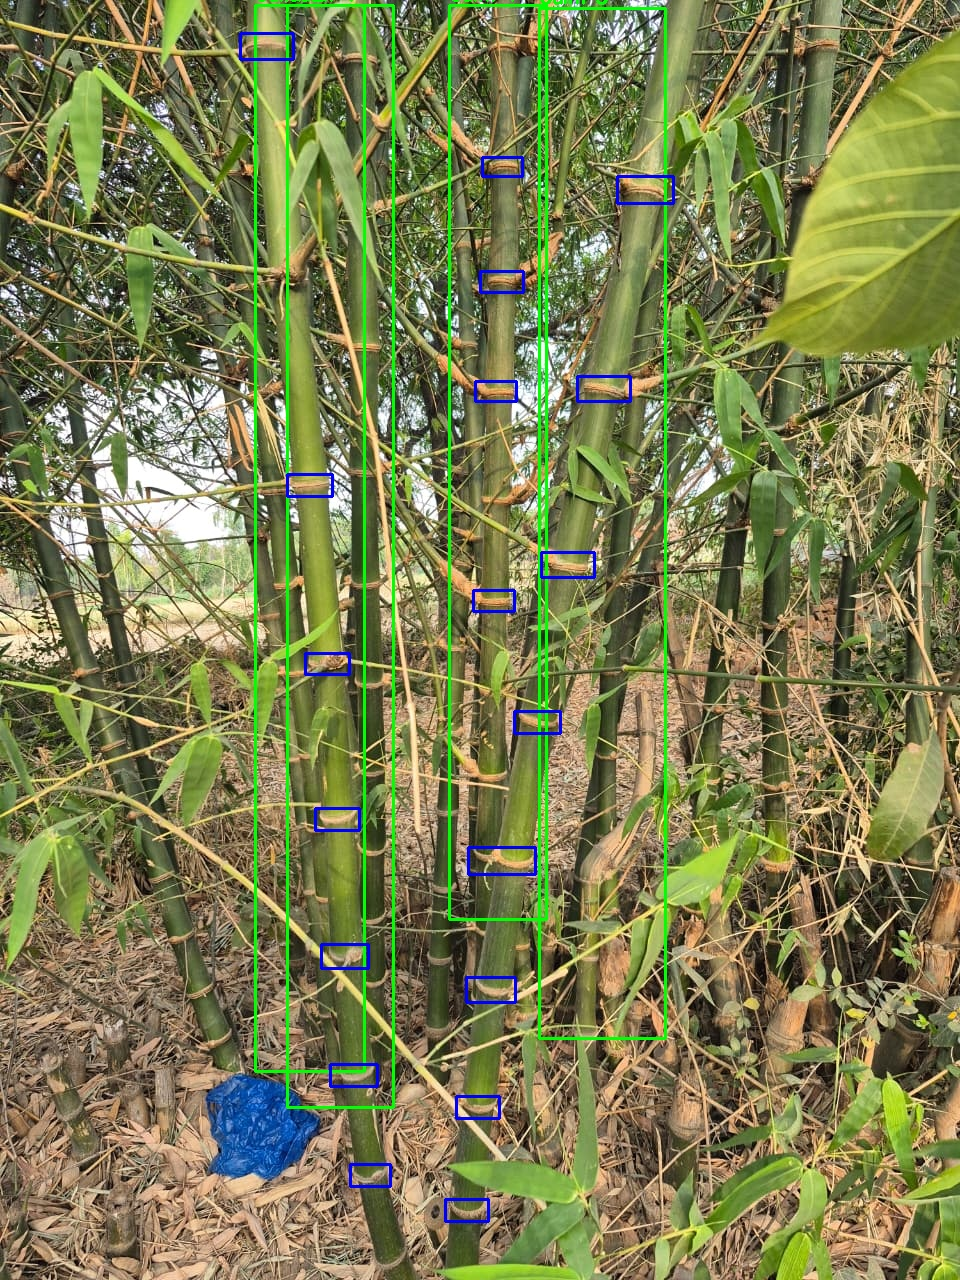
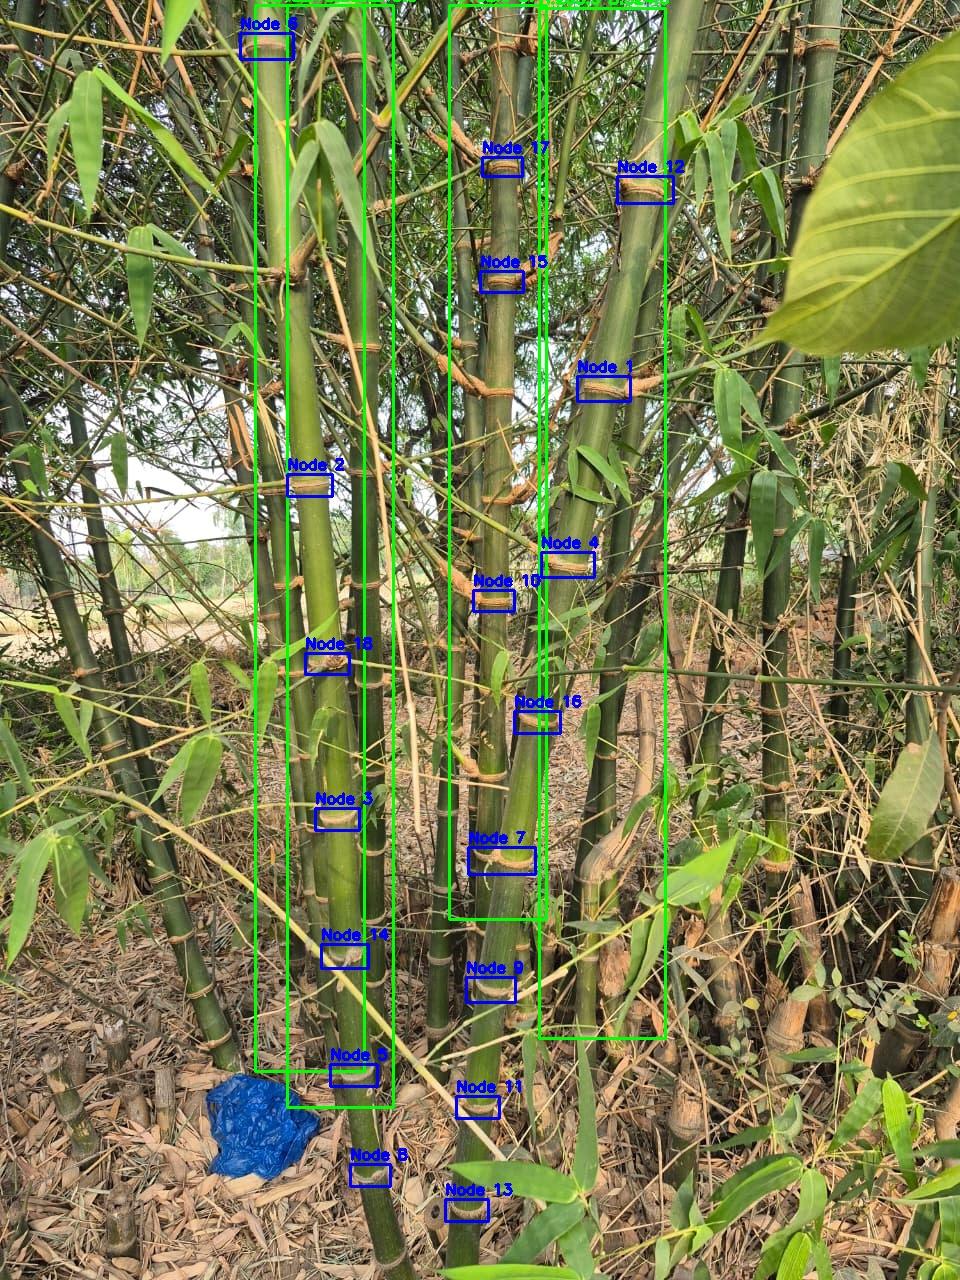
Upgrades in inference.py

diff --git a/inference.py b/inference.py
@@ -1,5 +1,5 @@
 # ================================
-# 🌿 INFERENCE (USE FOR ALL IMAGES)
+# 🌿 INFERENCE (FULL SYSTEM VERSION)
 # ================================
 
 import cv2
@@ -8,11 +8,14 @@ import pandas as pd
 from ultralytics import YOLO
 import json
 import os
+import matplotlib.pyplot as plt
+from reportlab.platypus import SimpleDocTemplate, Paragraph, Spacer
+from reportlab.lib.styles import getSampleStyleSheet
 
 model = YOLO("model/yolo11n.pt")
 
 # -------------------------------
-# Load saved calibration
+# LOAD CALIBRATION
 # -------------------------------
 with open("bamboo_scale.json", "r") as f:
     scale = json.load(f)
@@ -23,94 +26,136 @@ scale_diameter = scale["diameter_scale"]
 print("Loaded scale factors")
 
 # -------------------------------
-# Input image
+# INPUT FOLDER (ALL IMAGES)
 # -------------------------------
-image_path = "test_data/1.jpeg"
-base_name = os.path.splitext(os.path.basename(image_path))[0]
-output_path = f"output/{base_name}_output.jpg"
+input_folder = "test_data"
+output_folder = "output"
+os.makedirs(output_folder, exist_ok=True)
 
-image = cv2.imread(image_path)
-img_vis = image.copy()
+all_data = []
 
-results = model(image)
+# ===============================
+# PROCESS ALL IMAGES
+# ===============================
+for image_name in os.listdir(input_folder):
 
-culms = []
-nodes = []
+    if not image_name.lower().endswith((".jpg", ".jpeg", ".png")):
+        continue
 
-for r in results:
-    for box in r.boxes:
-        cls = int(box.cls[0])
-        label = model.names[cls]
+    image_path = os.path.join(input_folder, image_name)
+    base_name = os.path.splitext(image_name)[0]
+    output_path = os.path.join(output_folder, f"{base_name}_output.jpg")
 
-        x1, y1, x2, y2 = map(int, box.xyxy[0])
+    image = cv2.imread(image_path)
+    img_vis = image.copy()
 
-        if label == "culm":
-            culms.append((x1, y1, x2, y2))
-        elif label == "node":
-            nodes.append((x1, y1, x2, y2))
+    results = model(image)
 
-# -------------------------------
-# PIXEL FEATURES
-# -------------------------------
-heights_px = [(y2 - y1) for (x1, y1, x2, y2) in culms]
-widths_px  = [(x2 - x1) for (x1, y1, x2, y2) in culms]
+    culms = []
+    nodes = []
 
-# -------------------------------
-# REAL-WORLD CONVERSION
-# -------------------------------
-heights_cm = [h * scale_internode for h in heights_px]
-diam_cm = [w * scale_diameter for w in widths_px]
+    # ---------------- detection ----------------
+    for r in results:
+        for box in r.boxes:
+            cls = int(box.cls[0])
+            conf = float(box.conf[0])
+            label = model.names[cls]
 
-# -------------------------------
-# 🌱 BIOMASS ESTIMATION
-# -------------------------------
-k = 0.03  # empirical constant
+            if conf < 0.3:
+                continue
 
-biomass = []
+            x1, y1, x2, y2 = map(int, box.xyxy[0])
 
-for i in range(len(heights_cm)):
-    H = heights_cm[i]
-    D = diam_cm[i]
+            if label == "culm":
+                culms.append((x1, y1, x2, y2))
+            elif label == "node":
+                nodes.append((x1, y1, x2, y2))
 
-    B = k * (D ** 2) * H
-    biomass.append(B)
+    # ---------------- features ----------------
+    heights_px = [(y2 - y1) for (x1, y1, x2, y2) in culms]
+    widths_px  = [(x2 - x1) for (x1, y1, x2, y2) in culms]
 
-# -------------------------------
-# PRINT OUTPUT
-# -------------------------------
-data = []
+    heights_cm = [h * scale_internode for h in heights_px]
+    diam_cm = [w * scale_diameter for w in widths_px]
 
-for i in range(len(culms)):
-    print(f"\n🌿 Culm {i+1}")
-    print("Height (cm):", heights_cm[i])
-    print("Diameter (cm):", diam_cm[i])
-    print("Biomass (kg):", biomass[i])
+    k = 0.03
+    biomass = [k * (D**2) * H for D, H in zip(diam_cm, heights_cm)]
 
-    data.append({
-        "Culm_ID": i+1,
-        "Height_cm": heights_cm[i],
-        "Diameter_cm": diam_cm[i],
-        "Biomass_kg": biomass[i]
-    })
+    # ---------------- save per image data ----------------
+    for i in range(len(culms)):
+        all_data.append({
+            "Image": image_name,
+            "Culm_ID": i+1,
+            "Height_cm": heights_cm[i],
+            "Diameter_cm": diam_cm[i],
+            "Biomass_kg": biomass[i]
+        })
 
-df = pd.DataFrame(data)
+    # ---------------- visualization ----------------
+    for (x1, y1, x2, y2) in culms:
+        cv2.rectangle(img_vis, (x1, y1), (x2, y2), (0, 255, 0), 2)
 
+    for i, (x1, y1, x2, y2) in enumerate(culms):
+        cv2.putText(img_vis,
+                    f"H:{heights_cm[i]:.1f} B:{biomass[i]:.1f}",
+                    (x1, y1-5),
+                    cv2.FONT_HERSHEY_SIMPLEX,
+                    0.5, (0,255,0), 2)
+        
+    # ---------------- NODE VISUALIZATION ----------------
+    for (x1, y1, x2, y2) in nodes:
+        cv2.rectangle(img_vis, (x1, y1), (x2, y2), (255, 0, 0), 2)
+
+    for i, (x1, y1, x2, y2) in enumerate(nodes):
+        cv2.putText(img_vis,
+                    f"Node {i+1}",
+                    (x1, y1 - 5),
+                    cv2.FONT_HERSHEY_SIMPLEX,
+                    0.5, (255, 0, 0), 2)
+
+    cv2.imwrite(output_path, img_vis)
+
+# ===============================
+# SAVE CSV
+# ===============================
+df = pd.DataFrame(all_data)
 df.to_csv("output.csv", index=False)
 
-# -------------------------------
-# DRAW BOUNDING BOXES
-# -------------------------------
-for (x1, y1, x2, y2) in culms:
-    cv2.rectangle(img_vis, (x1, y1), (x2, y2), (0, 255, 0), 2)
+print("\n✅ CSV saved")
 
-for (x1, y1, x2, y2) in nodes:
-    cv2.rectangle(img_vis, (x1, y1), (x2, y2), (255, 0, 0), 2)
+# ===============================
+# 📊 AUTO CHARTS (NEW FEATURE)
+# ===============================
 
-# Optional: add labels
-for i, (x1, y1, x2, y2) in enumerate(culms):
-    cv2.putText(img_vis, f"Culm {i+1}", (x1, y1-5),
-                cv2.FONT_HERSHEY_SIMPLEX, 0.6, (0,255,0), 2)
+plt.figure()
+df.groupby("Image")["Biomass_kg"].sum().plot(kind="bar")
+plt.title("Biomass per Image")
+plt.ylabel("Biomass (kg)")
+plt.savefig("biomass_chart.png")
 
-cv2.imwrite(output_path, img_vis)
+plt.figure()
+df["Height_cm"].hist()
+plt.title("Height Distribution")
+plt.savefig("height_distribution.png")
 
-print("\n✅ Saved output image + CSV")
+print("📊 Charts saved")
+
+# ===============================
+# 📄 PDF REPORT (VERY IMPRESSIVE)
+# ===============================
+
+doc = SimpleDocTemplate("Bamboo_Report.pdf")
+styles = getSampleStyleSheet()
+content = []
+
+content.append(Paragraph("🌿 Bamboo Growth Monitoring Report", styles["Title"]))
+content.append(Spacer(1, 12))
+
+content.append(Paragraph(f"Total Images Processed: {len(df['Image'].unique())}", styles["Normal"]))
+content.append(Paragraph(f"Total Culms Detected: {len(df)}", styles["Normal"]))
+content.append(Paragraph(f"Total Biomass: {df['Biomass_kg'].sum():.2f} kg", styles["Normal"]))
+content.append(Spacer(1, 12))
+
+doc.build(content)
+
+print("📄 PDF report generated: Bamboo_Report.pdf")
